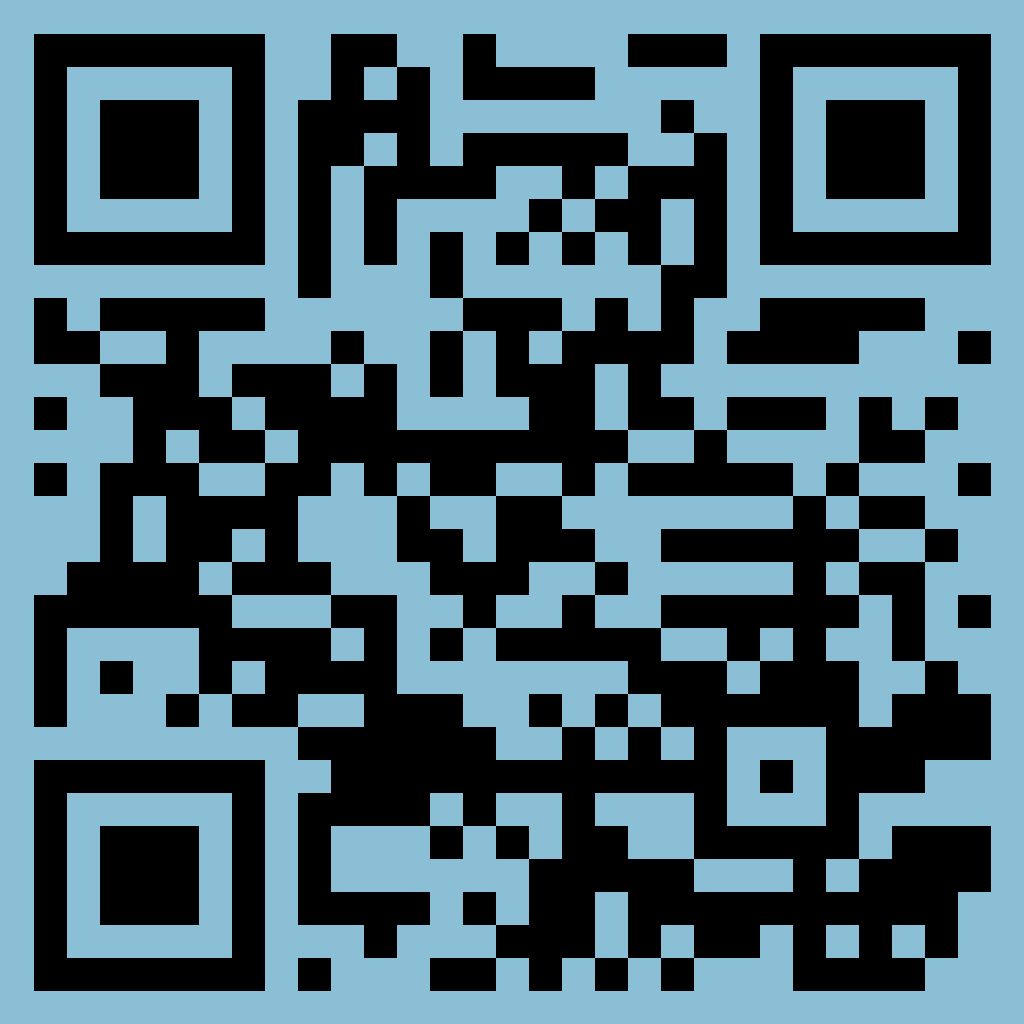
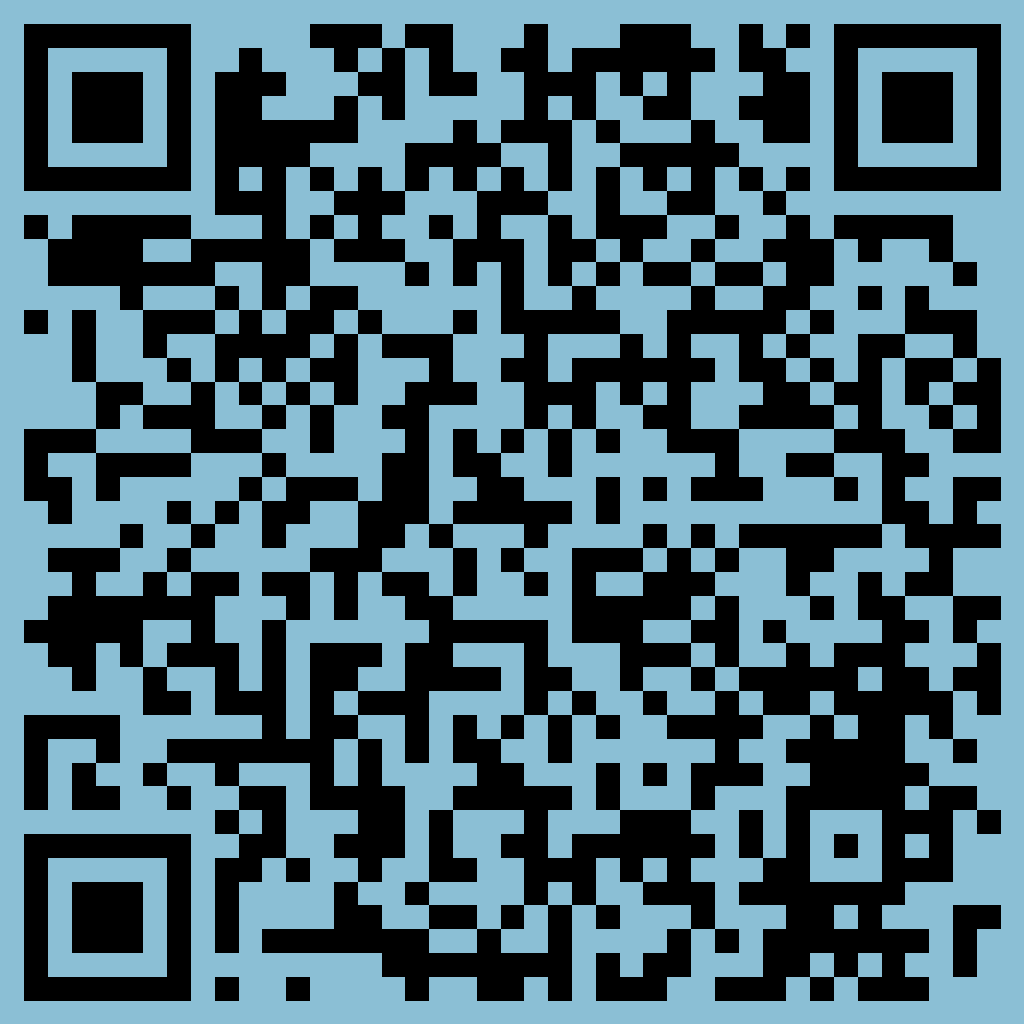
feat: Revise the 'Find Your Club' section in the brochure with updated content, layout, and new consistently generated QR codes.

diff --git a/generate_qr.js b/generate_qr.js
@@ -49,6 +49,7 @@ const main = async () => {
     await QRCode.toFile(filePath, url, {
         margin: 1,
         width: 1024,
+        version: 6, // Force une densité constante (Version 6)
         color: {
             light: '#8bbfd5ff'
         }

diff --git a/brochure.md b/brochure.md
@@ -421,47 +421,48 @@ Déjà qualifiée aux France 4 années de suite ! Pauline est une **habituée de
 
 ---
 
-# TROUVER MON CLUB
+# TROUVE TON CLUB
 
-> **Envie de grimper toute l'année ?** L'escalade, c'est encore mieux en club !
+<br>
+
+<div class="center">
+
+`Envie de grimper toute l'année ?`
+`L'escalade, c'est encore mieux en club !`
 
 <br>
 
 <div class="cols2">
-<div>
+<div class="center">
 
-### LA FÉDÉRATION FFME
+### LA FFME
 
-**Compétition & Performance**
-Trouvez les structures affiliées à la Fédération Française de la Montagne et de l'Escalade. Le top pour progresser en salle et viser les sommets !
+La référence pour apprendre, progresser techniquement et se dépasser, de l'initiation à la compétition.
 
 <div class="center">
 
-[![w:200](img/qr-ffme.png)](https://www.ffme.fr/ffme/espace-structure/carte-structures/)
+[![w:150](img/qr-ffme.png)](https://www.ffme.fr/ffme/espace-structure/carte-structures/)
 
-_Carte des clubs FFME_
-
-</div>
+_Trouve un clubs FFME_
 
 </div>
-<div>
 
-### LES CLUBS FFCAM
-
-**Esprit Montagne & Aventure**
-Rejoignez les Clubs Alpins et de Montagne. Pour ceux qui rêvent de grandes voies, d'alpinisme et d'aventure en pleine nature.
-
+</div>
 <div class="center">
 
-[![w:200](img/qr-ffcam.png)](https://www.ffcam.fr/recherche_clubs.html)
+### LA FFCAM
 
-_Recherche clubs FFCAM_
-
-</div>
-
-</div>
-</div>
+L'esprit 'Club Alpin' pour grimper en toute convivialité et découvrir la montagne sous toutes ses formes.
 
 <br>
 
-> 💡 **Le saviez-vous ?** Beaucoup de clubs affiliés proposent les deux licences. Renseignez-vous près de chez vous !
+<div class="center">
+
+[![w:150](img/qr-ffcam.png)](https://www.ffcam.fr/recherche_clubs.html)
+
+_Trouve un clubs FFCAM_
+
+</div>
+
+</div>
+</div>
